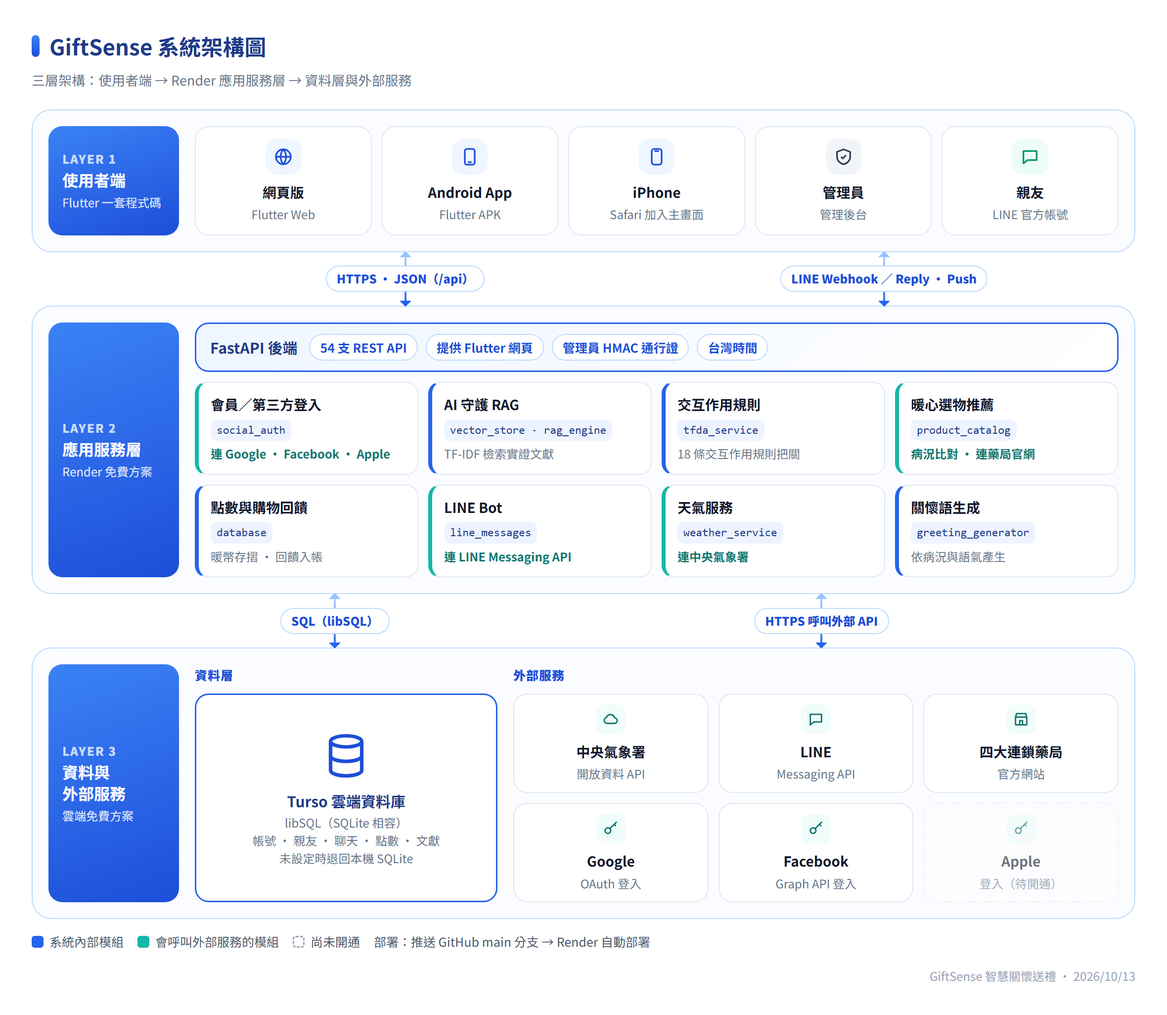
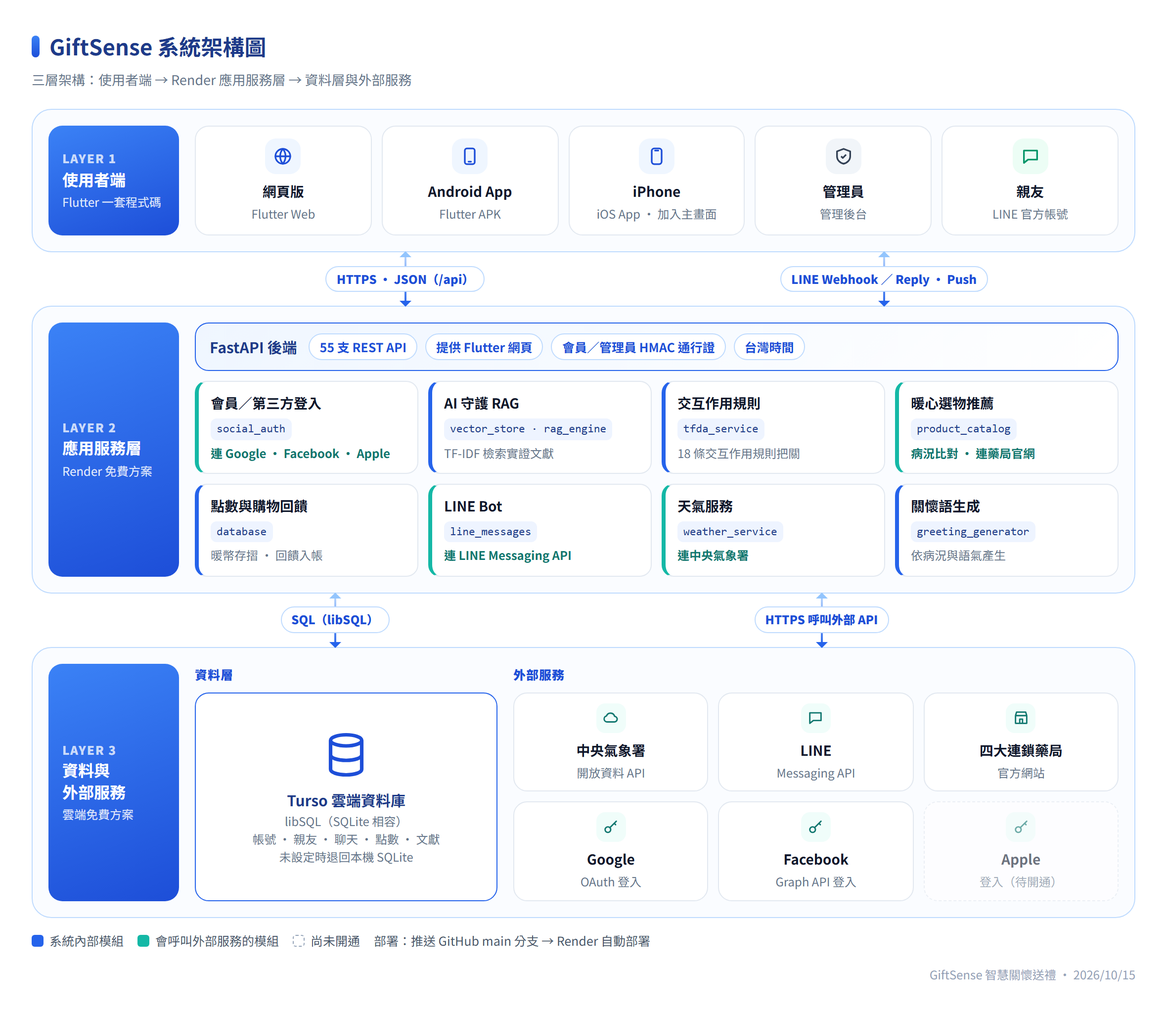
Bring the system guide and diagrams up to date
- 55 REST APIs, Flutter 3.47.7, version date 2026/10/15
- iPhone: the iOS app is built on a Mac and installed on a real iPhone;
  add-to-home-screen stays as the fallback. The iPhone demo script now
  starts from the installed app
- Admin console lists 回饋審核 (cashback review)
- Security table gains a cashback row (amount locked to catalog price)
- Regenerate the architecture, flow and function diagrams from the guide

diff --git a/backend/static/guide.html b/backend/static/guide.html
@@ -367,7 +367,7 @@
     <h1>GiftSense 智慧關懷送禮</h1>
     <p>心意，醫觸即達 · 系統架構、流程、技術、資料模型、點數回饋與 Demo 腳本</p>
     <div class="meta">
-      <span class="pill">版本：2026/10/13</span>
+      <span class="pill">版本：2026/10/15</span>
       <span class="pill">網站：giftsense-vjbu.onrender.com</span>
       <span class="pill">網頁 · Android · iPhone · LINE</span>
     </div>
@@ -396,7 +396,7 @@
   <p class="sub">GiftSense 讓家人用一個平台照顧遠方的親友：每日依天氣與病況產生關懷提醒、用 AI 守護助理檢查保健品是否撞藥、從連鎖藥局比價挑選合適商品，並透過 LINE 把關懷卡送到親友手上。</p>
   <div class="grid g4">
     <div class="stat"><b>4 種</b><span>使用端：網頁、Android、iPhone、親友 LINE</span></div>
-    <div class="stat"><b>54 支</b><span>後端 REST API</span></div>
+    <div class="stat"><b>55 支</b><span>後端 REST API</span></div>
     <div class="stat"><b>12 項</b><span>暖心選物商品（四大藥局官網實際查價）</span></div>
     <div class="stat"><b>36 篇</b><span>實證文獻與照護指引＋18 條交互作用規則</span></div>
   </div>
@@ -408,7 +408,7 @@
     <tr><td>暖心選物</td><td>依親友病況比對商品（主要病況加權、禁忌病況排除），固定推薦 3 項，四大連鎖藥局比價並標示同規格最低價；購物回饋（ShopBack 模式，模擬流程：金額依查價鎖定，使用者無法修改）。</td></tr>
     <tr><td>傳情小站</td><td>家人 × 親友的一對一聊天室；訊息同步推播到親友 LINE，親友從 LINE 回覆會回到聊天室。</td></tr>
     <tr><td>暖幣存摺</td><td>關懷卡、小熊互動、購物回饋累積點數；1 點可折抵 $1（與回饋比例一致），也可兌換 AI 守護詢問次數，效期 3 年。</td></tr>
-    <tr><td>管理後台</td><td>系統總覽、實證文獻庫（新增／編輯／刪除即時更新 RAG）、RAG 測試台（測試情境＋深度題、不限次數）、後端設定。</td></tr>
+    <tr><td>管理後台</td><td>系統總覽、實證文獻庫（新增／編輯／刪除即時更新 RAG）、RAG 測試台（測試情境＋深度題、不限次數）、回饋審核（待入帳期間駁回異常回饋）、後端設定。</td></tr>
   </table>
 </section>
 
@@ -423,7 +423,7 @@
       <div class="nodes">
         <div class="node"><div class="ico"><svg viewBox="0 0 24 24" fill="none" stroke="currentColor" stroke-width="2" stroke-linecap="round"><circle cx="12" cy="12" r="9"/><path d="M3 12h18M12 3a14 14 0 0 1 0 18M12 3a14 14 0 0 0 0 18"/></svg></div><b>網頁版</b><small>Flutter Web</small></div>
         <div class="node"><div class="ico"><svg viewBox="0 0 24 24" fill="none" stroke="currentColor" stroke-width="2" stroke-linecap="round"><rect x="6" y="2.5" width="12" height="19" rx="2.5"/><path d="M10.5 18.5h3"/></svg></div><b>Android App</b><small>Flutter APK</small></div>
-        <div class="node"><div class="ico"><svg viewBox="0 0 24 24" fill="none" stroke="currentColor" stroke-width="2" stroke-linecap="round"><rect x="6" y="2.5" width="12" height="19" rx="3"/><path d="M10 5h4"/></svg></div><b>iPhone</b><small>Safari 加入主畫面</small></div>
+        <div class="node"><div class="ico"><svg viewBox="0 0 24 24" fill="none" stroke="currentColor" stroke-width="2" stroke-linecap="round"><rect x="6" y="2.5" width="12" height="19" rx="3"/><path d="M10 5h4"/></svg></div><b>iPhone</b><small>iOS App · 加入主畫面</small></div>
         <div class="node slate"><div class="ico"><svg viewBox="0 0 24 24" fill="none" stroke="currentColor" stroke-width="2" stroke-linejoin="round"><path d="M12 3l8 3v6c0 4.5-3.4 8-8 9-4.6-1-8-4.5-8-9V6z"/><path d="M9 12l2 2 4-4"/></svg></div><b>管理員</b><small>管理後台</small></div>
         <div class="node green"><div class="ico"><svg viewBox="0 0 24 24" fill="none" stroke="currentColor" stroke-width="2" stroke-linejoin="round"><path d="M4 5h16v11H9l-5 4z"/></svg></div><b>親友</b><small>LINE 官方帳號</small></div>
       </div>
@@ -440,7 +440,7 @@
     <div class="tier">
       <div class="tier-label"><span>LAYER 2</span><b>應用服務層</b><small>Render 免費方案</small></div>
       <div class="core-body">
-        <div class="gateway"><b>FastAPI 後端</b><span>54 支 REST API</span><span>提供 Flutter 網頁</span><span>會員／管理員 HMAC 通行證</span><span>台灣時間</span></div>
+        <div class="gateway"><b>FastAPI 後端</b><span>55 支 REST API</span><span>提供 Flutter 網頁</span><span>會員／管理員 HMAC 通行證</span><span>台灣時間</span></div>
         <div class="mods">
           <div class="mod teal"><b>會員／第三方登入</b><code>social_auth</code><em class="ext">連 Google · Facebook · Apple</em></div>
           <div class="mod"><b>AI 守護 RAG</b><code>vector_store · rag_engine</code><em>TF-IDF 檢索實證文獻</em></div>
@@ -514,6 +514,7 @@
         <tr><td>會員身分</td><td>任何方式登入成功後核發 HMAC 簽章的會員通行證（30 天），App 以 <code>Authorization: Bearer</code> 送出；後端只依通行證判斷帳號，冒用別人的帳號一律拒絕，過期就回到登入頁。簽章金鑰來自環境變數 <code>AUTH_TOKEN_SECRET</code>。</td></tr>
         <tr><td>管理員</td><td>密碼由 <code>ADMIN_PASSWORD</code> 設定；登入後另核發管理員通行證（7 天），管理後台（文獻庫、RAG 設定、資料庫匯出、購物回饋審核）必須持有，RAG 測試台憑證不限次數。</td></tr>
         <tr><td>LINE</td><td>Webhook 以 <code>LINE_CHANNEL_SECRET</code> 驗證 <code>X-Line-Signature</code>，未設定金鑰時一律拒絕；一個 LINE 帳號只綁定一位親友。</td></tr>
+        <tr><td>購物回饋</td><td>金額在「前往購買」時由後端依商品查價鎖定，確認購買的 API 不接受金額；每天最多確認 3 筆，待入帳 7 天內管理員可駁回。</td></tr>
         <tr><td>隱私</td><td>網頁版 Cookie 同意（必要／第三方登入）、公開隱私權政策 <code>/privacy</code>；聊天只看得到自己與親友的對話。</td></tr>
       </table>
     </div>
@@ -538,7 +539,7 @@
       <div class="fn-mod"><div class="fn-head"><i>06</i><b>傳情小站</b></div><ul><li>一對一聊天室</li><li>同步推播到 LINE</li><li>接收親友回覆</li><li>快速片語</li></ul></div>
       <div class="fn-mod"><div class="fn-head"><i>07</i><b>暖幣存摺</b></div><ul><li>點數明細</li><li>關懷卡・小熊回饋</li><li>購物回饋入帳</li><li>折抵<small>1 點 = $1</small></li><li>點數效期 3 年</li></ul></div>
       <div class="fn-mod line"><div class="fn-head"><i>08</i><b>LINE 親友端</b></div><ul><li>綁定 GiftSense</li><li>接收關懷卡</li><li>回覆家人訊息</li><li>圖文選單</li></ul></div>
-      <div class="fn-mod admin"><div class="fn-head"><i>09</i><b>管理後台</b></div><ul><li>系統總覽</li><li>實證文獻庫<small>新增・編輯・刪除</small></li><li>RAG 測試台<small>不限次數</small></li><li>後端設定</li></ul></div>
+      <div class="fn-mod admin"><div class="fn-head"><i>09</i><b>管理後台</b></div><ul><li>系統總覽</li><li>實證文獻庫<small>新增・編輯・刪除</small></li><li>RAG 測試台<small>不限次數</small></li><li>回饋審核<small>待入帳駁回</small></li><li>後端設定</li></ul></div>
     </div>
     <div class="fn-legend">
       <span><i style="background:linear-gradient(135deg,#3B82F6,#1D4ED8)"></i>家人端（會員）</span>
@@ -573,7 +574,7 @@
   <div class="fa-login">
     <div class="fa-node fa-decide"><b>登入</b><small>帳號密碼 · Google · Facebook</small></div>
     <div class="fa-side"><div class="fa-h"><span>管理員</span></div>
-      <div class="fa-node fa-admin"><b>管理後台</b><small>系統總覽 · 文獻庫 · RAG 測試台</small></div></div>
+      <div class="fa-node fa-admin"><b>管理後台</b><small>系統總覽 · 文獻庫 · RAG 測試台 · 回饋審核</small></div></div>
   </div>
   <div class="fa-v" style="height:44px"><span>一般會員</span></div>
   <div class="fa-node fa-home"><b>今日守護首頁</b><small>每日打卡 · 中央氣象署天氣 · 依病況產生關懷叮嚀</small></div>
@@ -758,23 +759,23 @@ flowchart TD
   <p class="sub">全部採用免費方案與開源套件。</p>
   <div class="grid g2">
     <div>
-      <h3>前端（Flutter 3.44 · Dart）</h3>
+      <h3>前端（Flutter 3.47.7 · Dart）</h3>
       <table>
         <tr><th>技術</th><th>用途</th></tr>
-        <tr><td>Flutter Web / Android</td><td>一套程式碼產出網頁版與 APK；RWD 版面（桌面滿版、手機底部導覽列）</td></tr>
+        <tr><td>Flutter Web / Android / iOS</td><td>一套程式碼產出網頁版、APK 與 iOS App（Mac 上以 Xcode 編譯，免費 Apple ID 簽署安裝到 iPhone）；RWD 版面（桌面滿版、手機底部導覽列）</td></tr>
         <tr><td>Material 3 自訂主題</td><td>藍色主調、漸層、進場／浮起／呼吸光暈／數字跳動等動畫</td></tr>
         <tr><td>google_sign_in · flutter_facebook_auth · sign_in_with_apple</td><td>第三方登入</td></tr>
         <tr><td>image_picker</td><td>換頭貼（相簿／拍照），上傳前縮成 512px</td></tr>
         <tr><td>url_launcher · AppLifecycleListener</td><td>開啟藥局網站、偵測回到 App 以完成購物回饋</td></tr>
         <tr><td>shared_preferences · http · audioplayers</td><td>登入狀態與 Cookie 同意、API 呼叫、LINE 語音播放</td></tr>
-        <tr><td>PWA</td><td>iPhone「加入主畫面」：GiftSense 圖示、全螢幕、啟動畫面</td></tr>
+        <tr><td>PWA</td><td>沒有安裝 App 的 iPhone 也能用 Safari「加入主畫面」：GiftSense 圖示、全螢幕、啟動畫面</td></tr>
       </table>
     </div>
     <div>
       <h3>後端（Python · FastAPI）</h3>
       <table>
         <tr><th>技術</th><th>用途</th></tr>
-        <tr><td>FastAPI · Uvicorn · Pydantic</td><td>54 支 REST API、資料驗證</td></tr>
+        <tr><td>FastAPI · Uvicorn · Pydantic</td><td>55 支 REST API、資料驗證</td></tr>
         <tr><td>libsql（Turso）／sqlite3</td><td>雲端資料庫；自寫轉接層讓 SQLite 語法直接運作</td></tr>
         <tr><td>TF-IDF ＋ 餘弦相似度</td><td>實證文獻向量檢索（中文單字＋雙字詞）</td></tr>
         <tr><td>規則引擎</td><td>18 條藥物／食物／保健品交互作用規則、22 類病況快速提問、商品禁忌排除、否定詞判斷</td></tr>
@@ -1103,18 +1104,18 @@ flowchart TD
 
   <div class="panel" data-group="demo" id="d-ios">
     <ol class="steps">
-      <li><span class="time">1 分</span><span class="step-title">加入主畫面</span>
-        <div>iPhone Safari 開啟網站 → 下方出現「把 GiftSense 加入主畫面」提示 → 分享 → 加入主畫面。</div>
-        <div class="say">免費方案下，iPhone 以 PWA 方式使用，不需上架 App Store。</div>
-        <div class="expect">主畫面出現 GiftSense 圖示。</div></li>
-      <li><span class="time">0.5 分</span><span class="step-title">全螢幕啟動</span>
-        <div>從主畫面開啟：GiftSense 啟動畫面 → 全螢幕執行，沒有 Safari 網址列。</div></li>
+      <li><span class="time">0.5 分</span><span class="step-title">開啟 iOS App</span>
+        <div>iPhone 主畫面點 GiftSense 圖示（Mac 以 Xcode 編譯、免費 Apple ID 簽署安裝的 Release 版）→ 啟動畫面 → 以帳號密碼登入。</div>
+        <div class="say">網頁、Android 與 iOS 共用同一套 Flutter 程式碼與後端；免費 Apple ID 安裝的 App 每 7 天要在 Mac 重新安裝一次。</div>
+        <div class="expect">全螢幕的 GiftSense App，畫面與 Android 版一致。</div></li>
       <li><span class="time">1 分</span><span class="step-title">首頁與小熊</span>
-        <div>登入 → 首頁、天氣、小熊（點兩下）。</div></li>
+        <div>首頁、天氣、用藥安全雷達、小熊（點兩下）。</div></li>
       <li><span class="time">1 分</span><span class="step-title">換頭貼</span>
         <div>個人資料設定 → 點頭貼 → iOS 選擇「照片圖庫」或「拍照」。</div></li>
-      <li><span class="time">1 分</span><span class="step-title">說明原生 iOS 規劃</span>
-        <div>原生 iOS 專案已設定好（圖示、相簿權限、Facebook 設定），可在 Mac 以免費 Apple ID 安裝到自己的 iPhone；Apple 登入需加入 Apple Developer Program，因此目前顯示「尚未開放」。</div></li>
+      <li><span class="time">0.5 分</span><span class="step-title">沒有安裝 App 時</span>
+        <div>iPhone Safari 開啟網站 → 下方出現「把 GiftSense 加入主畫面」提示 → 分享 → 加入主畫面，以全螢幕使用網頁版。</div></li>
+      <li><span class="time">0.5 分</span><span class="step-title">說明上架規劃</span>
+        <div>上架 App Store 與 Apple 登入需加入 Apple Developer Program（每年 99 美元），因此 Apple 登入目前顯示「尚未開放」；iOS 上的 Google／Facebook 原生登入也待上架前設定。</div></li>
     </ol>
   </div>
 
@@ -1133,7 +1134,7 @@ flowchart TD
 
 </main>
 
-<footer>GiftSense 智慧關懷送禮 · 系統說明文件 · 2026/10/13</footer>
+<footer>GiftSense 智慧關懷送禮 · 系統說明文件 · 2026/10/15</footer>
 
 <script>
   // 導覽列：用 JS 捲動（在預覽視窗、iframe 中錨點連結會失效），並標示目前所在章節

diff --git a/docs/giftsense_system_guide.html b/docs/giftsense_system_guide.html
@@ -367,7 +367,7 @@
     <h1>GiftSense 智慧關懷送禮</h1>
     <p>心意，醫觸即達 · 系統架構、流程、技術、資料模型、點數回饋與 Demo 腳本</p>
     <div class="meta">
-      <span class="pill">版本：2026/10/13</span>
+      <span class="pill">版本：2026/10/15</span>
       <span class="pill">網站：giftsense-vjbu.onrender.com</span>
       <span class="pill">網頁 · Android · iPhone · LINE</span>
     </div>
@@ -396,7 +396,7 @@
   <p class="sub">GiftSense 讓家人用一個平台照顧遠方的親友：每日依天氣與病況產生關懷提醒、用 AI 守護助理檢查保健品是否撞藥、從連鎖藥局比價挑選合適商品，並透過 LINE 把關懷卡送到親友手上。</p>
   <div class="grid g4">
     <div class="stat"><b>4 種</b><span>使用端：網頁、Android、iPhone、親友 LINE</span></div>
-    <div class="stat"><b>54 支</b><span>後端 REST API</span></div>
+    <div class="stat"><b>55 支</b><span>後端 REST API</span></div>
     <div class="stat"><b>12 項</b><span>暖心選物商品（四大藥局官網實際查價）</span></div>
     <div class="stat"><b>36 篇</b><span>實證文獻與照護指引＋18 條交互作用規則</span></div>
   </div>
@@ -408,7 +408,7 @@
     <tr><td>暖心選物</td><td>依親友病況比對商品（主要病況加權、禁忌病況排除），固定推薦 3 項，四大連鎖藥局比價並標示同規格最低價；購物回饋（ShopBack 模式，模擬流程：金額依查價鎖定，使用者無法修改）。</td></tr>
     <tr><td>傳情小站</td><td>家人 × 親友的一對一聊天室；訊息同步推播到親友 LINE，親友從 LINE 回覆會回到聊天室。</td></tr>
     <tr><td>暖幣存摺</td><td>關懷卡、小熊互動、購物回饋累積點數；1 點可折抵 $1（與回饋比例一致），也可兌換 AI 守護詢問次數，效期 3 年。</td></tr>
-    <tr><td>管理後台</td><td>系統總覽、實證文獻庫（新增／編輯／刪除即時更新 RAG）、RAG 測試台（測試情境＋深度題、不限次數）、後端設定。</td></tr>
+    <tr><td>管理後台</td><td>系統總覽、實證文獻庫（新增／編輯／刪除即時更新 RAG）、RAG 測試台（測試情境＋深度題、不限次數）、回饋審核（待入帳期間駁回異常回饋）、後端設定。</td></tr>
   </table>
 </section>
 
@@ -423,7 +423,7 @@
       <div class="nodes">
         <div class="node"><div class="ico"><svg viewBox="0 0 24 24" fill="none" stroke="currentColor" stroke-width="2" stroke-linecap="round"><circle cx="12" cy="12" r="9"/><path d="M3 12h18M12 3a14 14 0 0 1 0 18M12 3a14 14 0 0 0 0 18"/></svg></div><b>網頁版</b><small>Flutter Web</small></div>
         <div class="node"><div class="ico"><svg viewBox="0 0 24 24" fill="none" stroke="currentColor" stroke-width="2" stroke-linecap="round"><rect x="6" y="2.5" width="12" height="19" rx="2.5"/><path d="M10.5 18.5h3"/></svg></div><b>Android App</b><small>Flutter APK</small></div>
-        <div class="node"><div class="ico"><svg viewBox="0 0 24 24" fill="none" stroke="currentColor" stroke-width="2" stroke-linecap="round"><rect x="6" y="2.5" width="12" height="19" rx="3"/><path d="M10 5h4"/></svg></div><b>iPhone</b><small>Safari 加入主畫面</small></div>
+        <div class="node"><div class="ico"><svg viewBox="0 0 24 24" fill="none" stroke="currentColor" stroke-width="2" stroke-linecap="round"><rect x="6" y="2.5" width="12" height="19" rx="3"/><path d="M10 5h4"/></svg></div><b>iPhone</b><small>iOS App · 加入主畫面</small></div>
         <div class="node slate"><div class="ico"><svg viewBox="0 0 24 24" fill="none" stroke="currentColor" stroke-width="2" stroke-linejoin="round"><path d="M12 3l8 3v6c0 4.5-3.4 8-8 9-4.6-1-8-4.5-8-9V6z"/><path d="M9 12l2 2 4-4"/></svg></div><b>管理員</b><small>管理後台</small></div>
         <div class="node green"><div class="ico"><svg viewBox="0 0 24 24" fill="none" stroke="currentColor" stroke-width="2" stroke-linejoin="round"><path d="M4 5h16v11H9l-5 4z"/></svg></div><b>親友</b><small>LINE 官方帳號</small></div>
       </div>
@@ -440,7 +440,7 @@
     <div class="tier">
       <div class="tier-label"><span>LAYER 2</span><b>應用服務層</b><small>Render 免費方案</small></div>
       <div class="core-body">
-        <div class="gateway"><b>FastAPI 後端</b><span>54 支 REST API</span><span>提供 Flutter 網頁</span><span>會員／管理員 HMAC 通行證</span><span>台灣時間</span></div>
+        <div class="gateway"><b>FastAPI 後端</b><span>55 支 REST API</span><span>提供 Flutter 網頁</span><span>會員／管理員 HMAC 通行證</span><span>台灣時間</span></div>
         <div class="mods">
           <div class="mod teal"><b>會員／第三方登入</b><code>social_auth</code><em class="ext">連 Google · Facebook · Apple</em></div>
           <div class="mod"><b>AI 守護 RAG</b><code>vector_store · rag_engine</code><em>TF-IDF 檢索實證文獻</em></div>
@@ -514,6 +514,7 @@
         <tr><td>會員身分</td><td>任何方式登入成功後核發 HMAC 簽章的會員通行證（30 天），App 以 <code>Authorization: Bearer</code> 送出；後端只依通行證判斷帳號，冒用別人的帳號一律拒絕，過期就回到登入頁。簽章金鑰來自環境變數 <code>AUTH_TOKEN_SECRET</code>。</td></tr>
         <tr><td>管理員</td><td>密碼由 <code>ADMIN_PASSWORD</code> 設定；登入後另核發管理員通行證（7 天），管理後台（文獻庫、RAG 設定、資料庫匯出、購物回饋審核）必須持有，RAG 測試台憑證不限次數。</td></tr>
         <tr><td>LINE</td><td>Webhook 以 <code>LINE_CHANNEL_SECRET</code> 驗證 <code>X-Line-Signature</code>，未設定金鑰時一律拒絕；一個 LINE 帳號只綁定一位親友。</td></tr>
+        <tr><td>購物回饋</td><td>金額在「前往購買」時由後端依商品查價鎖定，確認購買的 API 不接受金額；每天最多確認 3 筆，待入帳 7 天內管理員可駁回。</td></tr>
         <tr><td>隱私</td><td>網頁版 Cookie 同意（必要／第三方登入）、公開隱私權政策 <code>/privacy</code>；聊天只看得到自己與親友的對話。</td></tr>
       </table>
     </div>
@@ -538,7 +539,7 @@
       <div class="fn-mod"><div class="fn-head"><i>06</i><b>傳情小站</b></div><ul><li>一對一聊天室</li><li>同步推播到 LINE</li><li>接收親友回覆</li><li>快速片語</li></ul></div>
       <div class="fn-mod"><div class="fn-head"><i>07</i><b>暖幣存摺</b></div><ul><li>點數明細</li><li>關懷卡・小熊回饋</li><li>購物回饋入帳</li><li>折抵<small>1 點 = $1</small></li><li>點數效期 3 年</li></ul></div>
       <div class="fn-mod line"><div class="fn-head"><i>08</i><b>LINE 親友端</b></div><ul><li>綁定 GiftSense</li><li>接收關懷卡</li><li>回覆家人訊息</li><li>圖文選單</li></ul></div>
-      <div class="fn-mod admin"><div class="fn-head"><i>09</i><b>管理後台</b></div><ul><li>系統總覽</li><li>實證文獻庫<small>新增・編輯・刪除</small></li><li>RAG 測試台<small>不限次數</small></li><li>後端設定</li></ul></div>
+      <div class="fn-mod admin"><div class="fn-head"><i>09</i><b>管理後台</b></div><ul><li>系統總覽</li><li>實證文獻庫<small>新增・編輯・刪除</small></li><li>RAG 測試台<small>不限次數</small></li><li>回饋審核<small>待入帳駁回</small></li><li>後端設定</li></ul></div>
     </div>
     <div class="fn-legend">
       <span><i style="background:linear-gradient(135deg,#3B82F6,#1D4ED8)"></i>家人端（會員）</span>
@@ -573,7 +574,7 @@
   <div class="fa-login">
     <div class="fa-node fa-decide"><b>登入</b><small>帳號密碼 · Google · Facebook</small></div>
     <div class="fa-side"><div class="fa-h"><span>管理員</span></div>
-      <div class="fa-node fa-admin"><b>管理後台</b><small>系統總覽 · 文獻庫 · RAG 測試台</small></div></div>
+      <div class="fa-node fa-admin"><b>管理後台</b><small>系統總覽 · 文獻庫 · RAG 測試台 · 回饋審核</small></div></div>
   </div>
   <div class="fa-v" style="height:44px"><span>一般會員</span></div>
   <div class="fa-node fa-home"><b>今日守護首頁</b><small>每日打卡 · 中央氣象署天氣 · 依病況產生關懷叮嚀</small></div>
@@ -758,23 +759,23 @@ flowchart TD
   <p class="sub">全部採用免費方案與開源套件。</p>
   <div class="grid g2">
     <div>
-      <h3>前端（Flutter 3.44 · Dart）</h3>
+      <h3>前端（Flutter 3.47.7 · Dart）</h3>
       <table>
         <tr><th>技術</th><th>用途</th></tr>
-        <tr><td>Flutter Web / Android</td><td>一套程式碼產出網頁版與 APK；RWD 版面（桌面滿版、手機底部導覽列）</td></tr>
+        <tr><td>Flutter Web / Android / iOS</td><td>一套程式碼產出網頁版、APK 與 iOS App（Mac 上以 Xcode 編譯，免費 Apple ID 簽署安裝到 iPhone）；RWD 版面（桌面滿版、手機底部導覽列）</td></tr>
         <tr><td>Material 3 自訂主題</td><td>藍色主調、漸層、進場／浮起／呼吸光暈／數字跳動等動畫</td></tr>
         <tr><td>google_sign_in · flutter_facebook_auth · sign_in_with_apple</td><td>第三方登入</td></tr>
         <tr><td>image_picker</td><td>換頭貼（相簿／拍照），上傳前縮成 512px</td></tr>
         <tr><td>url_launcher · AppLifecycleListener</td><td>開啟藥局網站、偵測回到 App 以完成購物回饋</td></tr>
         <tr><td>shared_preferences · http · audioplayers</td><td>登入狀態與 Cookie 同意、API 呼叫、LINE 語音播放</td></tr>
-        <tr><td>PWA</td><td>iPhone「加入主畫面」：GiftSense 圖示、全螢幕、啟動畫面</td></tr>
+        <tr><td>PWA</td><td>沒有安裝 App 的 iPhone 也能用 Safari「加入主畫面」：GiftSense 圖示、全螢幕、啟動畫面</td></tr>
       </table>
     </div>
     <div>
       <h3>後端（Python · FastAPI）</h3>
       <table>
         <tr><th>技術</th><th>用途</th></tr>
-        <tr><td>FastAPI · Uvicorn · Pydantic</td><td>54 支 REST API、資料驗證</td></tr>
+        <tr><td>FastAPI · Uvicorn · Pydantic</td><td>55 支 REST API、資料驗證</td></tr>
         <tr><td>libsql（Turso）／sqlite3</td><td>雲端資料庫；自寫轉接層讓 SQLite 語法直接運作</td></tr>
         <tr><td>TF-IDF ＋ 餘弦相似度</td><td>實證文獻向量檢索（中文單字＋雙字詞）</td></tr>
         <tr><td>規則引擎</td><td>18 條藥物／食物／保健品交互作用規則、22 類病況快速提問、商品禁忌排除、否定詞判斷</td></tr>
@@ -1103,18 +1104,18 @@ flowchart TD
 
   <div class="panel" data-group="demo" id="d-ios">
     <ol class="steps">
-      <li><span class="time">1 分</span><span class="step-title">加入主畫面</span>
-        <div>iPhone Safari 開啟網站 → 下方出現「把 GiftSense 加入主畫面」提示 → 分享 → 加入主畫面。</div>
-        <div class="say">免費方案下，iPhone 以 PWA 方式使用，不需上架 App Store。</div>
-        <div class="expect">主畫面出現 GiftSense 圖示。</div></li>
-      <li><span class="time">0.5 分</span><span class="step-title">全螢幕啟動</span>
-        <div>從主畫面開啟：GiftSense 啟動畫面 → 全螢幕執行，沒有 Safari 網址列。</div></li>
+      <li><span class="time">0.5 分</span><span class="step-title">開啟 iOS App</span>
+        <div>iPhone 主畫面點 GiftSense 圖示（Mac 以 Xcode 編譯、免費 Apple ID 簽署安裝的 Release 版）→ 啟動畫面 → 以帳號密碼登入。</div>
+        <div class="say">網頁、Android 與 iOS 共用同一套 Flutter 程式碼與後端；免費 Apple ID 安裝的 App 每 7 天要在 Mac 重新安裝一次。</div>
+        <div class="expect">全螢幕的 GiftSense App，畫面與 Android 版一致。</div></li>
       <li><span class="time">1 分</span><span class="step-title">首頁與小熊</span>
-        <div>登入 → 首頁、天氣、小熊（點兩下）。</div></li>
+        <div>首頁、天氣、用藥安全雷達、小熊（點兩下）。</div></li>
       <li><span class="time">1 分</span><span class="step-title">換頭貼</span>
         <div>個人資料設定 → 點頭貼 → iOS 選擇「照片圖庫」或「拍照」。</div></li>
-      <li><span class="time">1 分</span><span class="step-title">說明原生 iOS 規劃</span>
-        <div>原生 iOS 專案已設定好（圖示、相簿權限、Facebook 設定），可在 Mac 以免費 Apple ID 安裝到自己的 iPhone；Apple 登入需加入 Apple Developer Program，因此目前顯示「尚未開放」。</div></li>
+      <li><span class="time">0.5 分</span><span class="step-title">沒有安裝 App 時</span>
+        <div>iPhone Safari 開啟網站 → 下方出現「把 GiftSense 加入主畫面」提示 → 分享 → 加入主畫面，以全螢幕使用網頁版。</div></li>
+      <li><span class="time">0.5 分</span><span class="step-title">說明上架規劃</span>
+        <div>上架 App Store 與 Apple 登入需加入 Apple Developer Program（每年 99 美元），因此 Apple 登入目前顯示「尚未開放」；iOS 上的 Google／Facebook 原生登入也待上架前設定。</div></li>
     </ol>
   </div>
 
@@ -1133,7 +1134,7 @@ flowchart TD
 
 </main>
 
-<footer>GiftSense 智慧關懷送禮 · 系統說明文件 · 2026/10/13</footer>
+<footer>GiftSense 智慧關懷送禮 · 系統說明文件 · 2026/10/15</footer>
 
 <script>
   // 導覽列：用 JS 捲動（在預覽視窗、iframe 中錨點連結會失效），並標示目前所在章節
